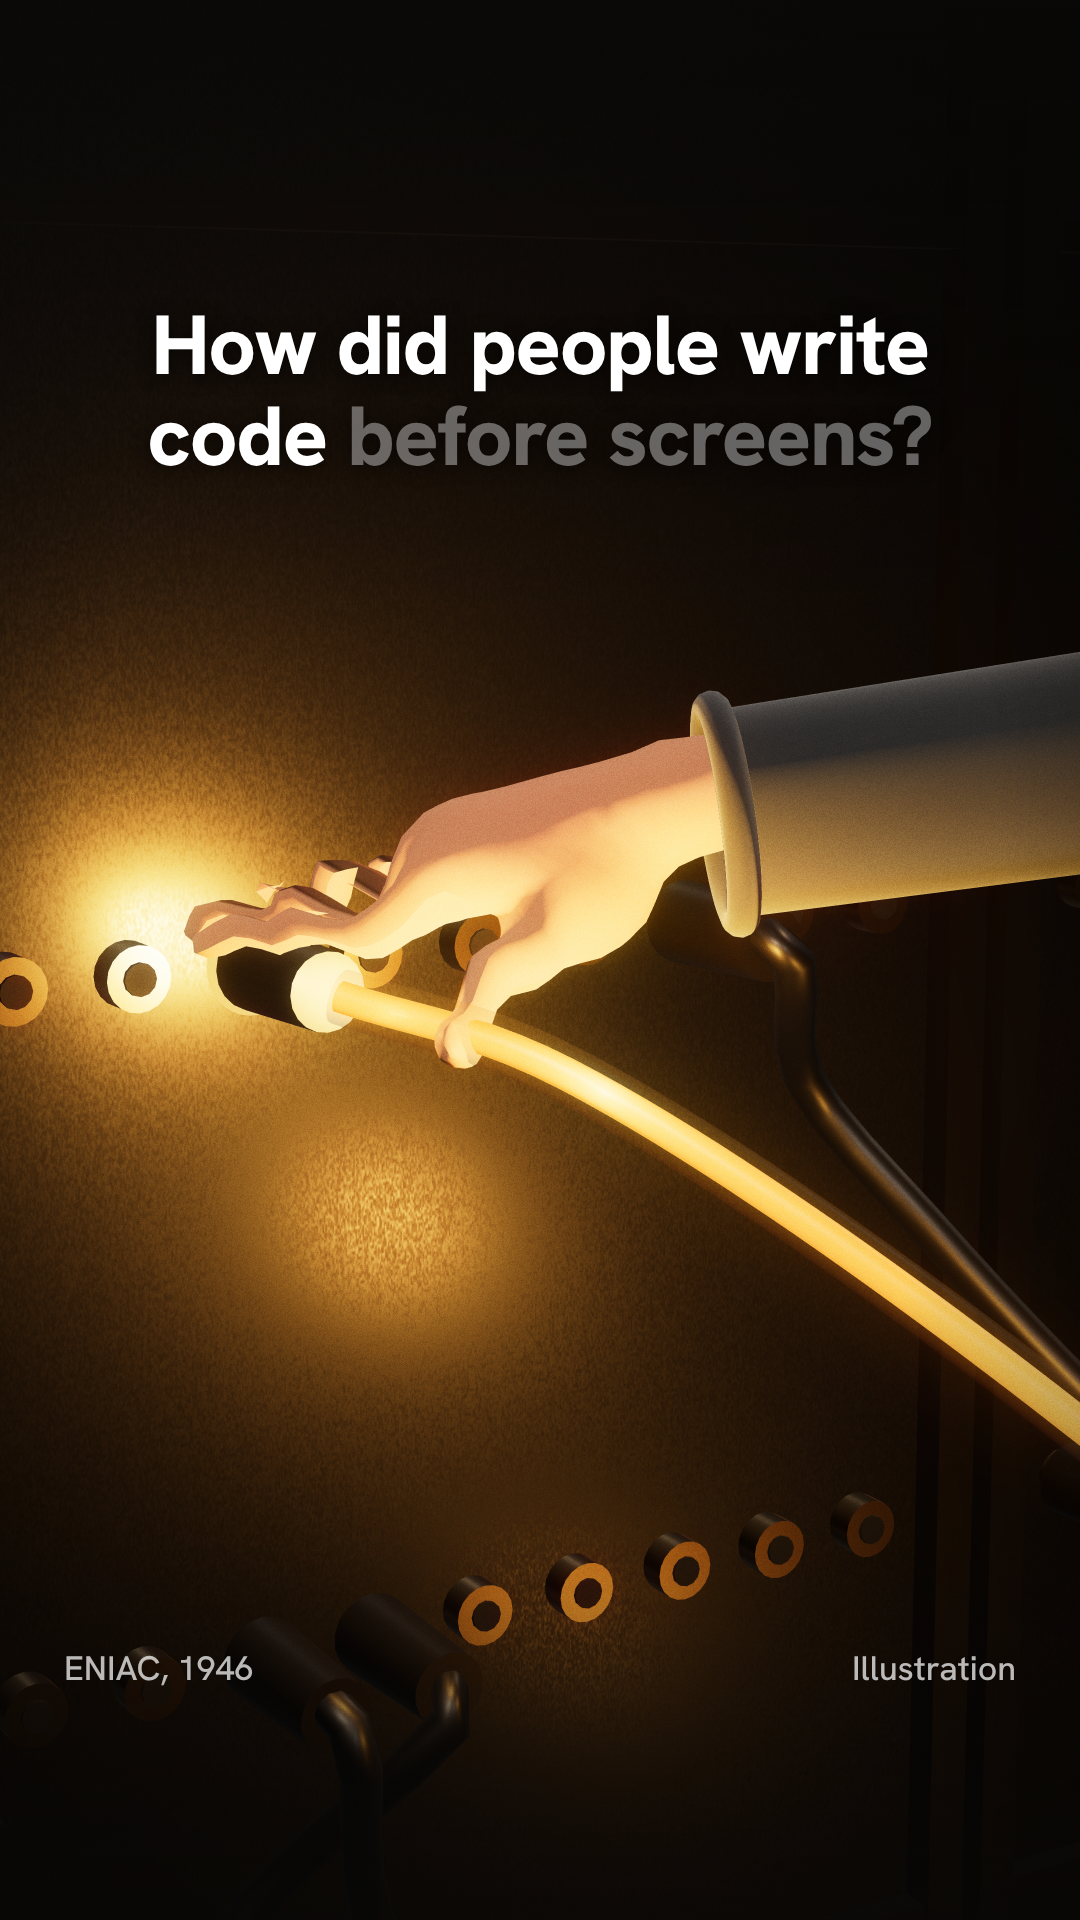
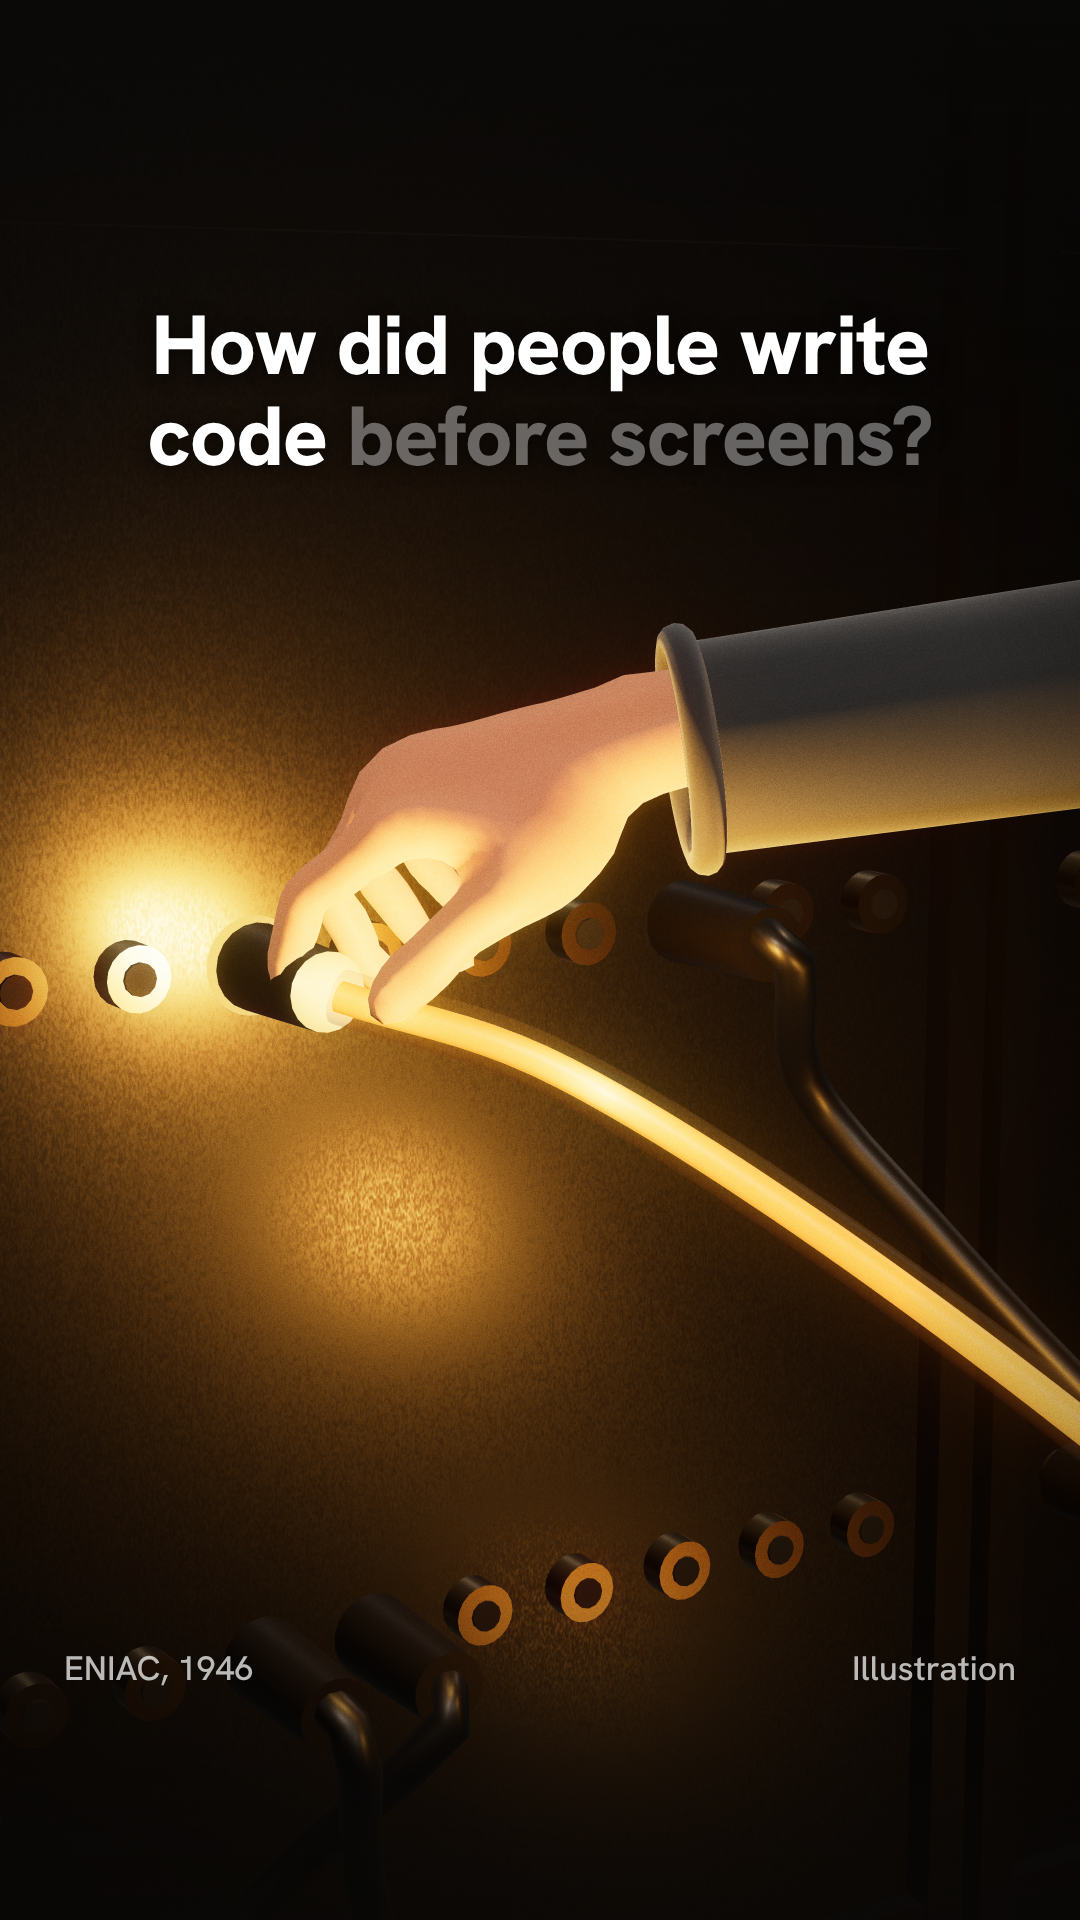
code-history-01: chain the hand's finger joints (forward kinematics) for a natural grip
Claude-Session: https://claude.ai/code/session_01WProZWpsJFDSXZymuGJDxf

Changed region(s): [[0.1528, 0.2812, 1.0, 0.5625]]

diff --git a/projects/code-history-01/film/src/hand.tsx b/projects/code-history-01/film/src/hand.tsx
@@ -1,24 +1,32 @@
-// Open-source hand (WebXR Input Profiles "generic-hand", MIT, Immersive Web Community Group).
-// A skinned mesh with one bone per joint (wrist, thumb-*, index-finger-*, …). We pose it by adding
-// a flexion rotation to each finger joint. Units: metres (about 19 cm long).
+// Open-source hand (WebXR Input Profiles "generic-hand", MIT, Copyright 2019 Amazon).
+// Its 25 joint bones are all siblings (a headset sets every joint directly), so bending one knuckle
+// does not carry the rest of the finger. We do the forward kinematics ourselves: each joint bends
+// about its own local X axis (WebXR: -Z runs along the bone, +Y out of the back of the hand), and
+// every joint further down the chain follows.
 import React, {useMemo} from 'react';
 import * as THREE from 'three';
 import {GLTF} from 'three/examples/jsm/loaders/GLTFLoader.js';
 import {clone as skClone} from 'three/examples/jsm/utils/SkeletonUtils.js';
 
-export type Pose = Partial<Record<'thumb' | 'index' | 'middle' | 'ring' | 'pinky', number>> & {axis?: 'x' | 'y' | 'z'; thumbAxis?: 'x' | 'y' | 'z'; spread?: number};
-const FINGERS = {
-  thumb: ['thumb-metacarpal', 'thumb-phalanx-proximal', 'thumb-phalanx-distal'],
-  index: ['index-finger-phalanx-proximal', 'index-finger-phalanx-intermediate', 'index-finger-phalanx-distal'],
-  middle: ['middle-finger-phalanx-proximal', 'middle-finger-phalanx-intermediate', 'middle-finger-phalanx-distal'],
-  ring: ['ring-finger-phalanx-proximal', 'ring-finger-phalanx-intermediate', 'ring-finger-phalanx-distal'],
-  pinky: ['pinky-finger-phalanx-proximal', 'pinky-finger-phalanx-intermediate', 'pinky-finger-phalanx-distal'],
+const CHAINS = {
+  thumb: ['thumb-metacarpal', 'thumb-phalanx-proximal', 'thumb-phalanx-distal', 'thumb-tip'],
+  index: ['index-finger-metacarpal', 'index-finger-phalanx-proximal', 'index-finger-phalanx-intermediate', 'index-finger-phalanx-distal', 'index-finger-tip'],
+  middle: ['middle-finger-metacarpal', 'middle-finger-phalanx-proximal', 'middle-finger-phalanx-intermediate', 'middle-finger-phalanx-distal', 'middle-finger-tip'],
+  ring: ['ring-finger-metacarpal', 'ring-finger-phalanx-proximal', 'ring-finger-phalanx-intermediate', 'ring-finger-phalanx-distal', 'ring-finger-tip'],
+  pinky: ['pinky-finger-metacarpal', 'pinky-finger-phalanx-proximal', 'pinky-finger-phalanx-intermediate', 'pinky-finger-phalanx-distal', 'pinky-finger-tip'],
 } as const;
+type Finger = keyof typeof CHAINS;
+
+// Per finger: bend (radians) at each joint in chain order (the tip takes none). `side`: rotation
+// about the joint's local Y at joint `sideAt` (finger spread, or the thumb swinging across the palm).
+export type Pose = Partial<Record<Finger, {bend: number[]; side?: number; sideAt?: number}>> & {sign?: number};
 
 export const skin = () => new THREE.MeshPhysicalMaterial({
   color: '#a87660', roughness: 0.55, sheen: 0.5, sheenRoughness: 0.6, sheenColor: new THREE.Color('#ffc4a8'),
   clearcoat: 0.08, clearcoatRoughness: 0.6, specularIntensity: 0.45,
 });
+
+const X = new THREE.Vector3(1, 0, 0), Y = new THREE.Vector3(0, 1, 0);
 
 // pinch: world point where the thumb and index tips meet; quat: the hand's orientation.
 export const Hand: React.FC<{gltf: GLTF; pose: Pose; pinch: THREE.Vector3; quat: THREE.Quaternion; sleeve?: string}> = ({gltf, pose, pinch, quat, sleeve = '#2a2f36'}) => {
@@ -27,27 +35,36 @@ export const Hand: React.FC<{gltf: GLTF; pose: Pose; pinch: THREE.Vector3; quat:
     const mat = skin();
     o.traverse((c) => {
       const m = c as THREE.SkinnedMesh;
-      if (m.isSkinnedMesh) { m.material = mat; m.geometry.computeVertexNormals(); m.frustumCulled = false; m.castShadow = true; }
+      if (m.isSkinnedMesh) { m.material = mat; m.frustumCulled = false; m.castShadow = true; }
     });
-    const rest = new Map<string, THREE.Quaternion>();
-    o.traverse((c) => rest.set(c.name, c.quaternion.clone()));
-    // forearm + sleeve, so the hand never ends in a cut wrist (model fingers point -y, arm goes +y)
-    const arm = new THREE.Mesh(new THREE.CylinderGeometry(0.043, 0.036, 0.42, 32, 1, true).translate(0, 0.27, 0), new THREE.MeshPhysicalMaterial({color: sleeve, roughness: 0.85, sheen: 1, sheenColor: new THREE.Color('#6a7380'), sheenRoughness: 0.5, side: THREE.DoubleSide}));
-    arm.position.set(0.035, 0.0, 0.0); o.add(arm);
-    const cuff = new THREE.Mesh(new THREE.TorusGeometry(0.037, 0.006, 12, 40).rotateX(Math.PI / 2), arm.material);
+    const rest = new Map<string, {p: THREE.Vector3; q: THREE.Quaternion}>();
+    o.traverse((c) => rest.set(c.name, {p: c.position.clone(), q: c.quaternion.clone()}));
+    const cloth = new THREE.MeshPhysicalMaterial({color: sleeve, roughness: 0.85, sheen: 1, sheenColor: new THREE.Color('#6a7380'), sheenRoughness: 0.5, side: THREE.DoubleSide});
+    const arm = new THREE.Mesh(new THREE.CylinderGeometry(0.043, 0.036, 0.42, 32, 1, true).translate(0, 0.27, 0), cloth);
+    arm.position.set(0.035, 0, 0); o.add(arm);
+    const cuff = new THREE.Mesh(new THREE.TorusGeometry(0.037, 0.006, 12, 40).rotateX(Math.PI / 2), cloth);
     cuff.position.set(0.035, 0.065, 0); o.add(cuff);
-    return {o, rest, arm};
+    return {o, rest};
   }, [gltf, sleeve]);
-  const ax = {x: new THREE.Vector3(1, 0, 0), y: new THREE.Vector3(0, 1, 0), z: new THREE.Vector3(0, 0, 1)};
-  for (const [f, bones] of Object.entries(FINGERS)) {
-    const amt = (pose as Record<string, number>)[f] ?? 0;
-    const a = ax[(f === 'thumb' ? pose.thumbAxis : pose.axis) ?? 'x'];
-    bones.forEach((name, i) => {
-      const b = obj.o.getObjectByName(name); if (!b) return;
-      const q = new THREE.Quaternion().setFromAxisAngle(a, amt * (i === 0 ? 0.9 : 1.1));
-      b.quaternion.copy(obj.rest.get(name)!).multiply(q);
+
+  const sign = pose.sign ?? 1;
+  for (const f of Object.keys(CHAINS) as Finger[]) {
+    const names = CHAINS[f], cfg = pose[f];
+    let D = new THREE.Quaternion();
+    let prevRest = obj.rest.get(names[0])!.p, prevNew = prevRest.clone();
+    names.forEach((n, i) => {
+      const b = obj.o.getObjectByName(n)!, r = obj.rest.get(n)!;
+      const pos = i === 0 ? r.p.clone() : prevNew.clone().add(r.p.clone().sub(prevRest).applyQuaternion(D));
+      let local = new THREE.Quaternion().setFromAxisAngle(X, sign * (cfg?.bend[i] ?? 0));
+      if (cfg?.side && i === (cfg.sideAt ?? 1)) local = new THREE.Quaternion().setFromAxisAngle(Y, cfg.side).multiply(local);
+      const delta = r.q.clone().multiply(local).multiply(r.q.clone().invert()); // joint-local -> armature
+      b.position.copy(pos);
+      b.quaternion.copy(D.clone().multiply(delta).multiply(r.q));
+      D = D.clone().multiply(delta);
+      prevRest = r.p; prevNew = pos;
     });
   }
+
   obj.o.position.set(0, 0, 0); obj.o.quaternion.identity(); obj.o.updateMatrixWorld(true);
   const tip = (n: string) => obj.o.getObjectByName(n)!.getWorldPosition(new THREE.Vector3());
   const mid = tip('index-finger-tip').add(tip('thumb-tip')).multiplyScalar(0.5);

diff --git a/projects/code-history-01/film/src/HandTest.tsx b/projects/code-history-01/film/src/HandTest.tsx
@@ -6,7 +6,7 @@ import {useThree} from '@react-three/fiber';
 import {ThreeCanvas} from './kit/three-canvas';
 import {Hand, Pose} from './hand';
 
-const Cam = () => { const c = useThree((s) => s.camera); c.position.set(0, 0, 0.6); c.lookAt(0, 0, 0); return null; };
+const Cam = () => { const c = useThree((s) => s.camera); c.position.set(0, 0, 0.75); c.lookAt(0, 0, 0); return null; };
 export const HandTest: React.FC<{poses: Pose[]}> = ({poses}) => {
   const [g, setG] = useState<GLTF | null>(null);
   const [h] = useState(() => delayRender('hand'));
@@ -16,7 +16,7 @@ export const HandTest: React.FC<{poses: Pose[]}> = ({poses}) => {
       {g && <ThreeCanvas width={1080} height={1920} onCreated={({gl}) => { gl.toneMapping = THREE.ACESFilmicToneMapping; }}>
         <Cam />
         <ambientLight intensity={0.6} /><directionalLight position={[1, 2, 3]} intensity={2} />
-        {poses.map((p, i) => <Hand key={i} gltf={g} pose={p} pinch={new THREE.Vector3(-0.15 + (i % 2) * 0.3, 0.3 - Math.floor(i / 2) * 0.3, 0)} quat={new THREE.Quaternion().setFromEuler(new THREE.Euler(0, -Math.PI / 2, 0))} />)}
+        {poses.map((p, i) => <Hand key={i} gltf={g} pose={p} pinch={new THREE.Vector3(-0.12 + (i % 2) * 0.24, 0.05, 0)} quat={new THREE.Quaternion().setFromEuler(new THREE.Euler(0, (p as {yaw?: number}).yaw ?? 0, 0))} />)}
       </ThreeCanvas>}
     </AbsoluteFill>
   );
